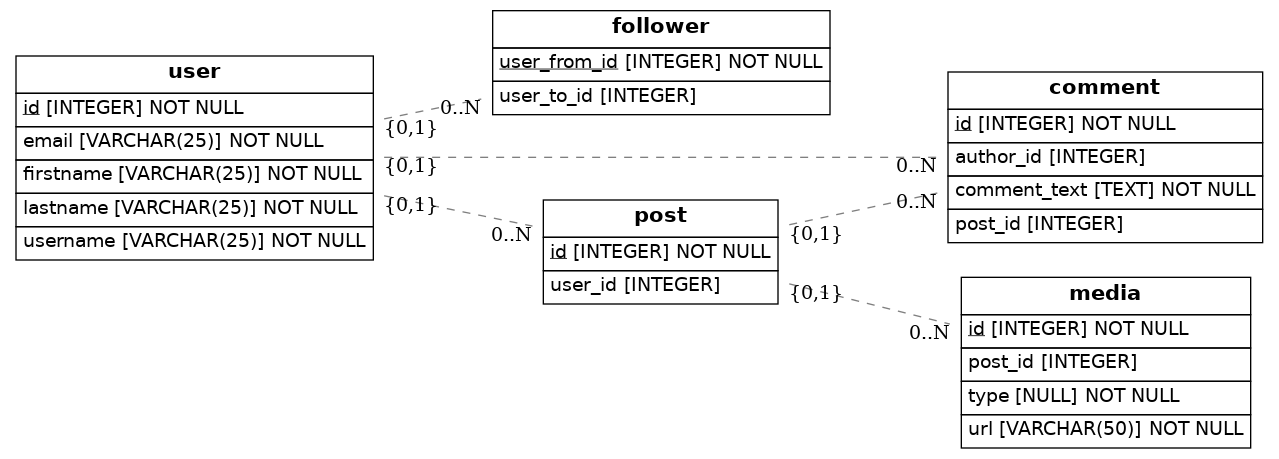
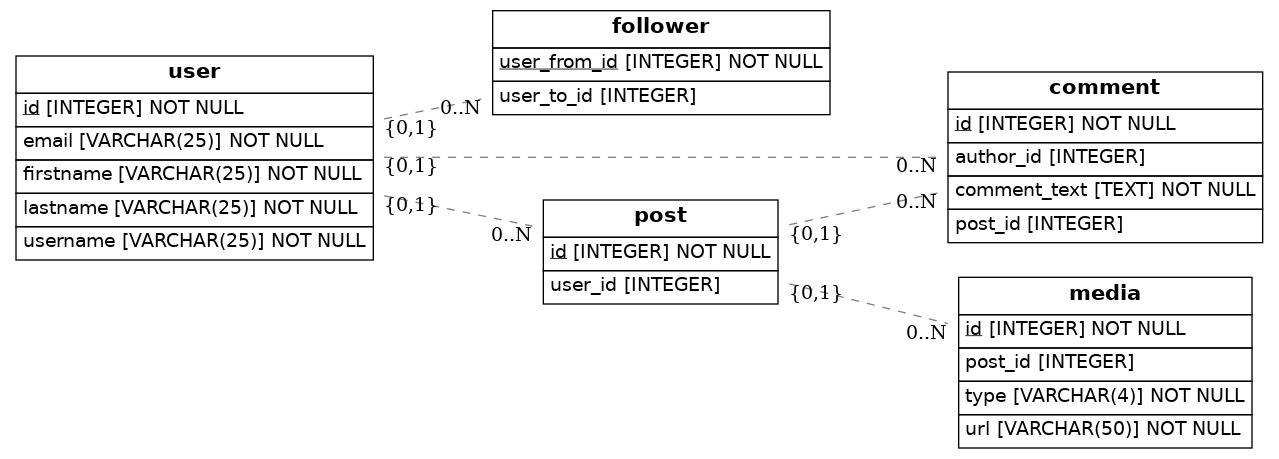
relationships done

Changed region(s): [[0.7013, 0.61, 0.9758, 0.976]]

diff --git a/src/models.py b/src/models.py
@@ -1,6 +1,6 @@
 import os
 import sys
-from sqlalchemy import Column, ForeignKey, Integer, String, Text
+from sqlalchemy import Column, ForeignKey, Integer, String, Text, Enum
 from sqlalchemy.orm import relationship, declarative_base
 from sqlalchemy import create_engine
 from eralchemy2 import render_er
@@ -37,8 +37,7 @@ class Post(Base):
 class Media(Base):
     __tablename__ = 'media'
     id = Column(Integer, primary_key=True)
-    type = Column(nullable=False)
-    # DEFINIR EL TYPE
+    type = Column(Enum('null'), nullable=False)
     url = Column(String(50), nullable=False)
     post_id = Column(Integer, ForeignKey('post.id'))
 
